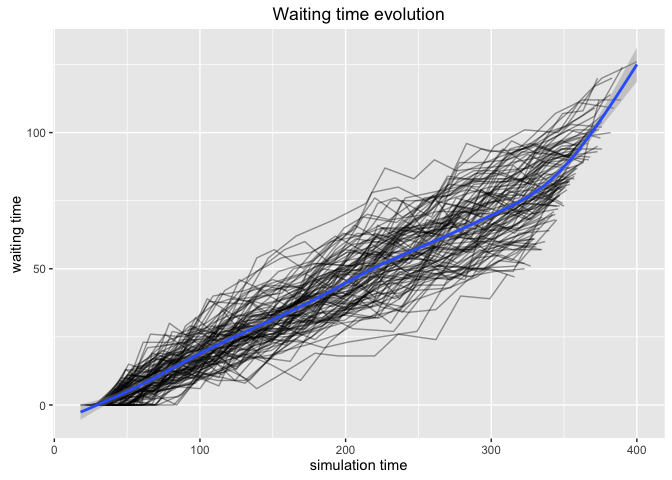
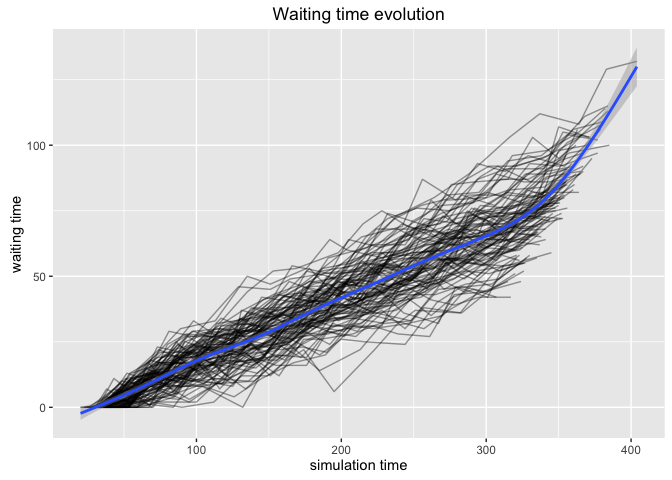
readme fix

diff --git a/README.md b/README.md
@@ -70,7 +70,7 @@ Moreover it lasts a good bit more than 4 hours.
 
     plot_evolution_arrival_times(envs, "waiting_time")
 
-![](/Users/bart/src/simmer.optim/README_files/figure-markdown_strict/unnamed-chunk-3-1.png)
+![](README_files/figure-markdown_strict/unnamed-chunk-3-1.png)
 
 The number of patients served in this process is:
 
@@ -90,7 +90,7 @@ consultation (after 4 hours) is:
       summarise(n=n()) %>%
       .$n %>% mean
 
-    ## [1] 10.84
+    ## [1] 11.04
 
 And the average waiting time of the patients served before the planned
 end of the consultation:
@@ -100,7 +100,7 @@ end of the consultation:
       mutate(waiting_time = end_time - start_time ) %>%
       .$waiting_time %>% mean
 
-    ## [1] 56.95572
+    ## [1] 54.44837
 
 ### Optimizing the situation
 
